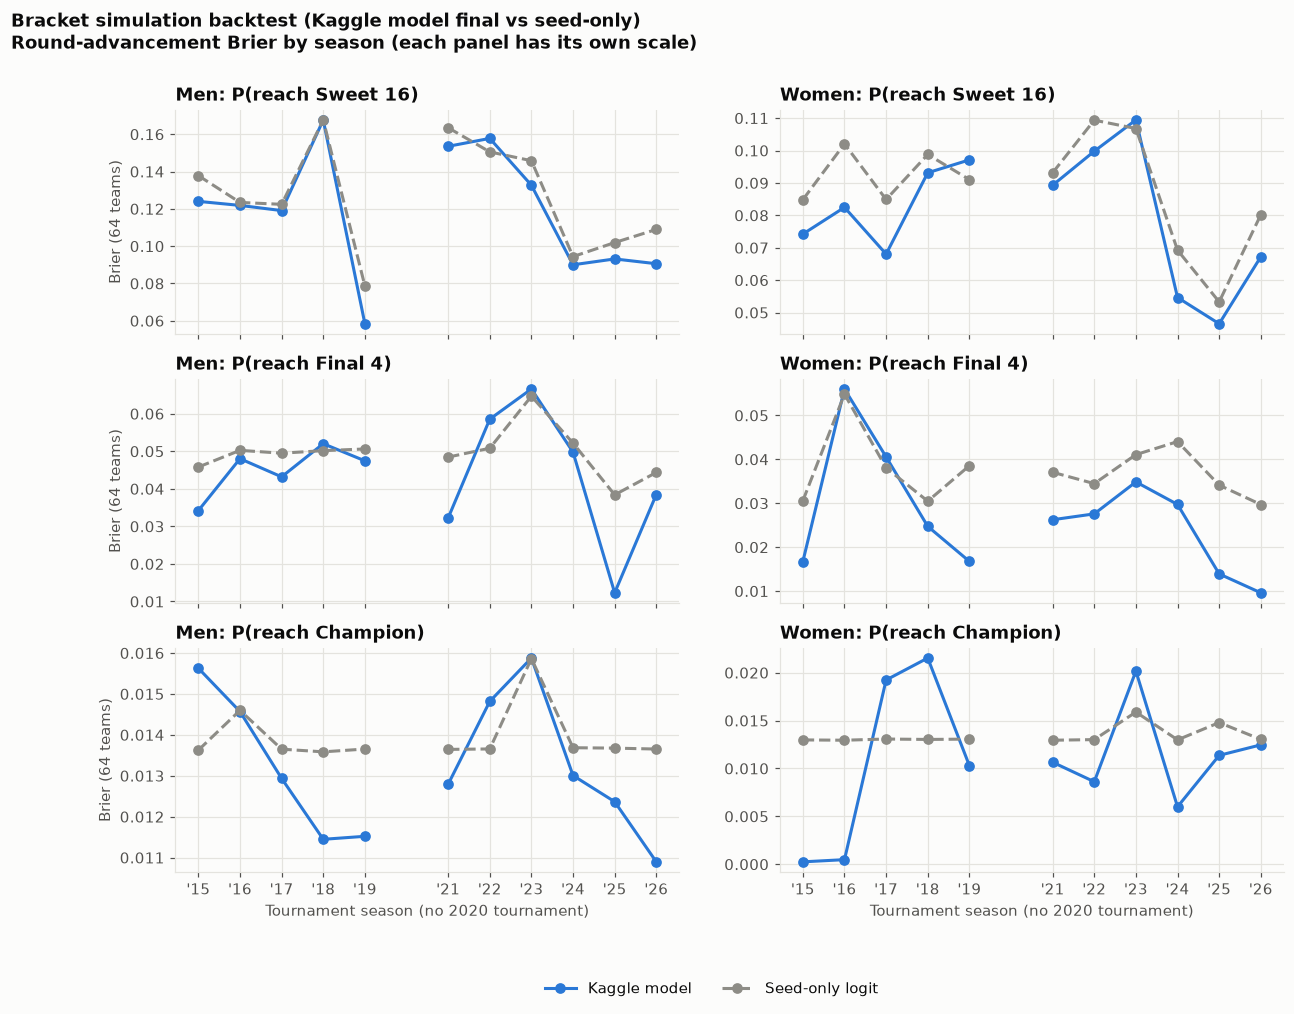
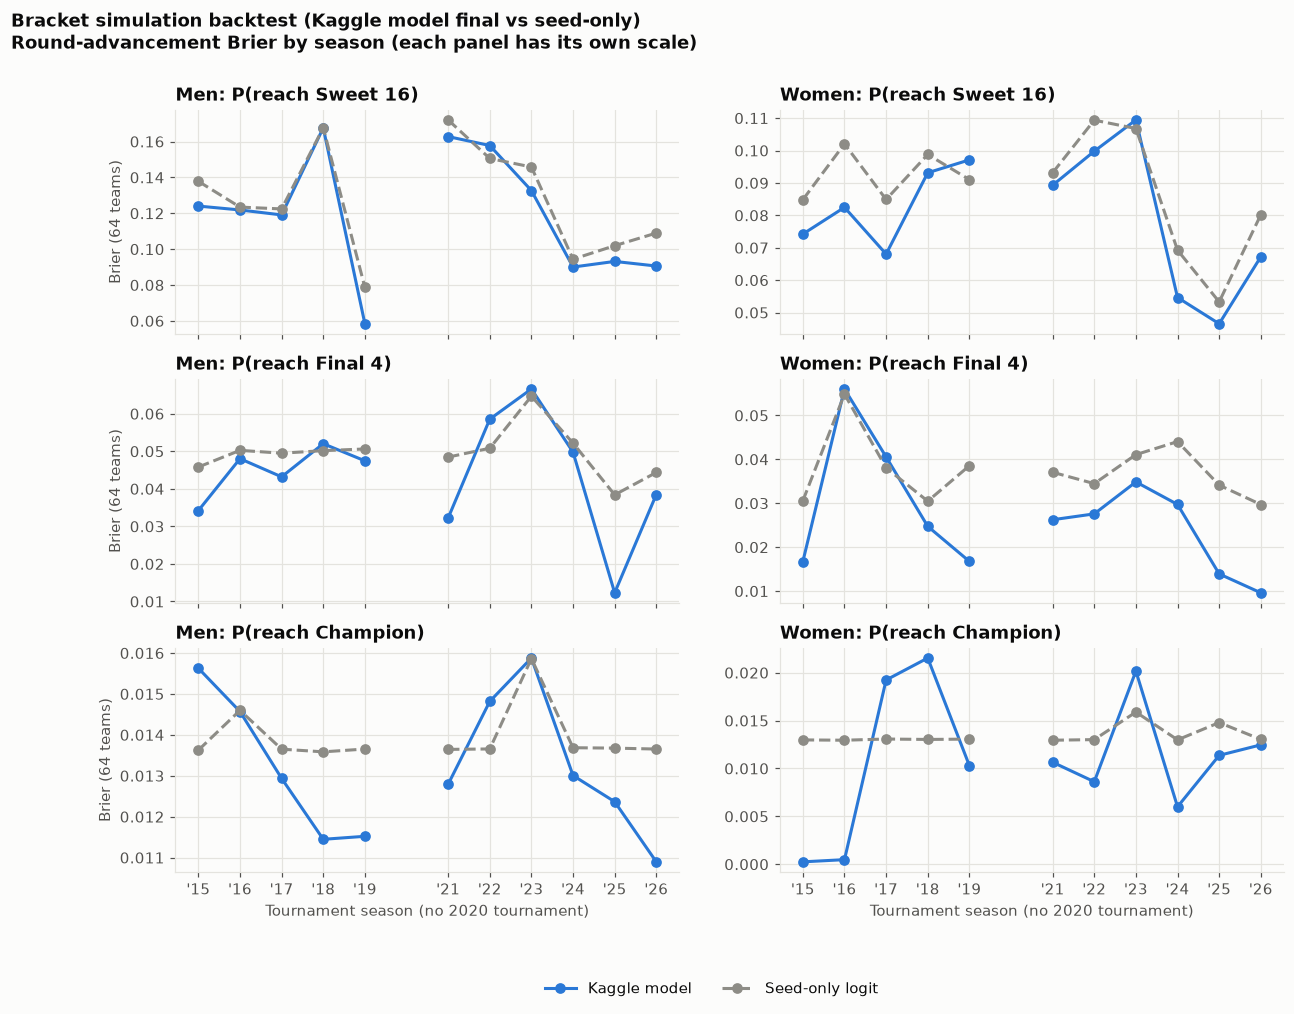
viz.bracket: walk the bracket tree for actual wins so no-contests count (2021 VCU-Oregon)

Changed region(s): [[0.0927, 0.1223, 0.2782, 0.2751], [0.34, 0.1223, 0.5255, 0.2751], [0.0927, 0.2751, 0.1236, 0.3057]]

diff --git a/viz/shaping.py b/viz/shaping.py
@@ -101,8 +101,23 @@ def bracket_tree(slots: pd.DataFrame, seeds: pd.DataFrame, field: set[int]):
     return teams, pairs, edges
 
 
-def actual_wins(played: pd.DataFrame) -> pd.Series:
-    """played: T1, T2, y (1 if T1 won). Returns wins per TeamID, counting every team that played."""
-    winners = np.where(played.y.values == 1, played.T1.values, played.T2.values)
-    teams = pd.Index(np.unique(np.concatenate([played.T1.values, played.T2.values])))
-    return pd.Series(winners).value_counts().reindex(teams, fill_value=0).astype(int)
+def actual_wins(teams, pairs, edges, played: pd.DataFrame) -> np.ndarray:
+    """Games won by each bracket team, walking the tree from bracket_tree. played: T1, T2, y (1 if T1 won).
+    A matchup with no played game (e.g. 2021 men's VCU-Oregon, a no-contest) goes to the side that
+    played later in the tournament."""
+    result = {frozenset((t1, t2)): (t1 if y == 1 else t2) for t1, t2, y in zip(played.T1, played.T2, played.y)}
+    seen = set(played.T1) | set(played.T2)
+    wins = dict.fromkeys(teams, 0)
+    winners = []
+    games = [(teams[h], teams[a]) for h, a in pairs] + [None] * len(edges)
+    for i, game in enumerate(games):
+        a, b = game or (winners[edges[i - len(pairs)][0]], winners[edges[i - len(pairs)][1]])
+        w = result.get(frozenset((a, b)))
+        if w is None:
+            alive = [t for t in (a, b) if t in seen]
+            if len(alive) != 1:
+                raise ValueError(f"No result for {a} vs {b}.")
+            w = alive[0]
+        winners.append(w)
+        wins[w] += 1
+    return np.array([wins[t] for t in teams])

diff --git a/viz/bracket.py b/viz/bracket.py
@@ -35,8 +35,8 @@ def simulate_season(preds: pd.DataFrame, g: str, year: int, n_sims: int, seed: i
 
     seeds = F.read(f"{g}NCAATourneySeeds").query("Season == @year")
     slots = F.read(f"{g}NCAATourneySlots").query("Season == @year")
-    wins = actual_wins(B.test_pairs(g, year))
-    teams, pairs, edges = bracket_tree(slots, seeds, set(wins.index))
+    played = B.test_pairs(g, year)
+    teams, pairs, edges = bracket_tree(slots, seeds, set(played.T1) | set(played.T2))
     idx = {t: i for i, t in enumerate(teams)}
     m = np.full((len(teams), len(teams)), np.nan)
     d = preds[preds.T1.isin(idx) & preds.T2.isin(idx)]
@@ -49,7 +49,7 @@ def simulate_season(preds: pd.DataFrame, g: str, year: int, n_sims: int, seed: i
     names = F.read(f"{g}Teams").set_index("TeamID").TeamName
     out = pd.DataFrame({"team": names.reindex(teams).values, "season": year, "gender": g, "TeamID": teams,
                         "seed": seeds.set_index("TeamID").Seed.str[1:3].astype(int).reindex(teams).values,
-                        "simulated_mean": counts.mean(axis=1), "actual_wins": wins.reindex(teams).values})
+                        "simulated_mean": counts.mean(axis=1), "actual_wins": actual_wins(teams, pairs, edges, played)})
     for k in THRESHOLDS:
         out[prob_col("probability_ge_", k)] = (counts >= k).mean(axis=1)
     return out.sort_values(["simulated_mean", "team"], ascending=[False, True]).reset_index(drop=True)

diff --git a/tests/test_viz_shaping.py b/tests/test_viz_shaping.py
@@ -55,9 +55,13 @@ class ShapingTests(unittest.TestCase):
         with self.assertRaises(ValueError):
             bracket_tree(slots, seeds, field={1, 2, 3, 4, 5})
 
-    def test_actual_wins_counts_losers_as_zero(self):
-        played = pd.DataFrame({"T1": [1, 3, 1], "T2": [2, 4, 3], "y": [1, 0, 0]})
-        self.assertEqual(actual_wins(played).to_dict(), {1: 1, 2: 0, 3: 1, 4: 1})
+    def test_actual_wins_walks_tree_and_awards_no_contest(self):
+        teams, pairs, edges = [1, 2, 3, 4], [(0, 1), (2, 3)], [(0, 1)]
+        # 3 vs 4 was never played (no contest); 3 then played and lost the final to 1
+        played = pd.DataFrame({"T1": [1, 1], "T2": [2, 3], "y": [1, 1]})
+        self.assertEqual(actual_wins(teams, pairs, edges, played).tolist(), [2, 0, 1, 0])
+        with self.assertRaises(ValueError):
+            actual_wins(teams, pairs, edges, played.iloc[:1])
 
 
 if __name__ == "__main__":
